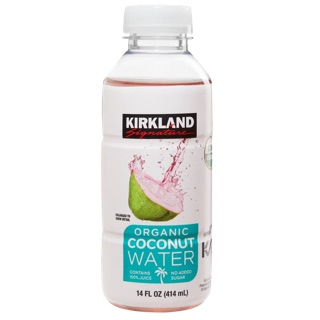
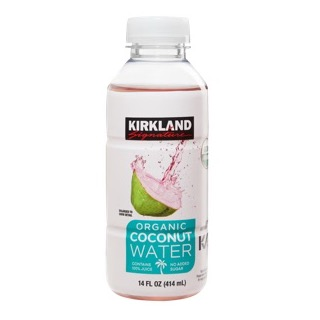
Water: square the drink packshots, and clear the home indicator
THE PHOTOS. The design's images are all 168x168 squares, which is why its
background-size:cover crops nothing. Mine were the raw sources — Vita Coco was
166x320, Liquid I.V. 240x320 — so cover on a 50pt square tile cut roughly half
the height off a tall carton. That is the same "too zoomed in" fault as the
fiber photos, arriving by a different route.

Fixed at the asset level rather than by switching to contain: each drink is
fitted inside 296 and padded onto a 320 white square, matching the design's
own framing. Cover and contain are then identical, and the render matches the
frame. Nuun was the one packshot with no white margin of its own, so it is
inset to sit on white like the other five.

Checked the corner pixels of all six first: sips flattens transparency to
white, not black, so nothing came through with a black box behind it.

Checked the food photos too — the landscape ones (edamame, salmon, peanuts,
avocado) come out of cover framed exactly as the design frames them, so those
are left alone.

THE BOTTOM. Both new screens are PUSHED over the tabs, so unlike Home there is
no tab bar underneath holding content clear of the home indicator, and a hard
paddingBottom of 40 left the last card sitting on the bar. Now insets.bottom
plus 28.

NOTE: every other screen in the app uses a fixed 28 or 34 with no bottom
inset. On a 34pt home-indicator phone that is the same fault. Not touched here
— it is a sweep of its own.

Changed region(s): [[0.3125, 0.0312, 0.6875, 1.0], [0.4688, 0.0312, 0.5938, 0.0625]]

diff --git a/pepta-frontend/src/screens/app/NutrientWaysScreen.tsx b/pepta-frontend/src/screens/app/NutrientWaysScreen.tsx
@@ -12,7 +12,7 @@
 import React from 'react';
 import { Image, Pressable, ScrollView, View } from 'react-native';
 import { useNavigation, useRoute, type NavigationProp, type RouteProp } from '@react-navigation/native';
-import { SafeAreaView } from 'react-native-safe-area-context';
+import { SafeAreaView, useSafeAreaInsets } from 'react-native-safe-area-context';
 import * as Haptics from 'expo-haptics';
 import { AppText, Card, ProgressBar } from '../../components';
 import { Icon } from '../../components/Icon';
@@ -46,6 +46,10 @@ const NOTES: Partial<Record<NutrientKind, string>> = {
 
 export function NutrientWaysScreen() {
   const theme = useTheme();
+  // The bottom inset, not a fixed number. This screen is PUSHED over the tabs,
+  // so there is no tab bar underneath to hold the last card clear of the home
+  // indicator — a hard 40 leaves it sitting on the bar on every modern iPhone.
+  const insets = useSafeAreaInsets();
   const navigation = useNavigation<NavigationProp<Record<string, object | undefined>>>();
   const route = useRoute<RouteProp<Record<string, NutrientWaysParams>, string>>();
   const kind: NutrientKind = route.params?.kind === 'protein' ? 'protein' : 'fiber';
@@ -79,7 +83,7 @@ export function NutrientWaysScreen() {
           <AppText variant="screenTitle">{TITLES[kind]}</AppText>
         </View>
 
-        <ScrollView contentContainerStyle={{ paddingHorizontal: 20, paddingBottom: 40 }} showsVerticalScrollIndicator={false}>
+        <ScrollView contentContainerStyle={{ paddingHorizontal: 20, paddingBottom: insets.bottom + 28 }} showsVerticalScrollIndicator={false}>
           {head ? (
             <Card style={{ marginTop: 12 }}>
               <View style={{ flexDirection: 'row', alignItems: 'center', justifyContent: 'space-between' }}>

diff --git a/pepta-frontend/src/screens/app/WaterScreen.tsx b/pepta-frontend/src/screens/app/WaterScreen.tsx
@@ -17,7 +17,7 @@
 import React from 'react';
 import { Image, Pressable, ScrollView, View } from 'react-native';
 import { useNavigation, type NavigationProp } from '@react-navigation/native';
-import { SafeAreaView } from 'react-native-safe-area-context';
+import { SafeAreaView, useSafeAreaInsets } from 'react-native-safe-area-context';
 import * as Haptics from 'expo-haptics';
 import { AppText, Card, WaterCup } from '../../components';
 import { Icon } from '../../components/Icon';
@@ -33,6 +33,10 @@ const STEP_OZ = 8;
 
 export function WaterScreen() {
   const theme = useTheme();
+  // The bottom inset, not a fixed number. This screen is PUSHED over the tabs,
+  // so there is no tab bar underneath to hold the last card clear of the home
+  // indicator — a hard 40 leaves it sitting on the bar on every modern iPhone.
+  const insets = useSafeAreaInsets();
   const navigation = useNavigation<NavigationProp<Record<string, object | undefined>>>();
   const { home, bumpWater } = usePeptaData();
   const { openQuickLog } = useLogSheets();
@@ -63,7 +67,7 @@ export function WaterScreen() {
           <AppText variant="screenTitle">Water</AppText>
         </View>
 
-        <ScrollView contentContainerStyle={{ paddingBottom: 40 }} showsVerticalScrollIndicator={false}>
+        <ScrollView contentContainerStyle={{ paddingBottom: insets.bottom + 28 }} showsVerticalScrollIndicator={false}>
           {/* The glass, and the ±8 that is already on Home. */}
           <View style={{ paddingHorizontal: 20 }}>
             <Card style={{ marginTop: 12, alignItems: 'center' }}>
